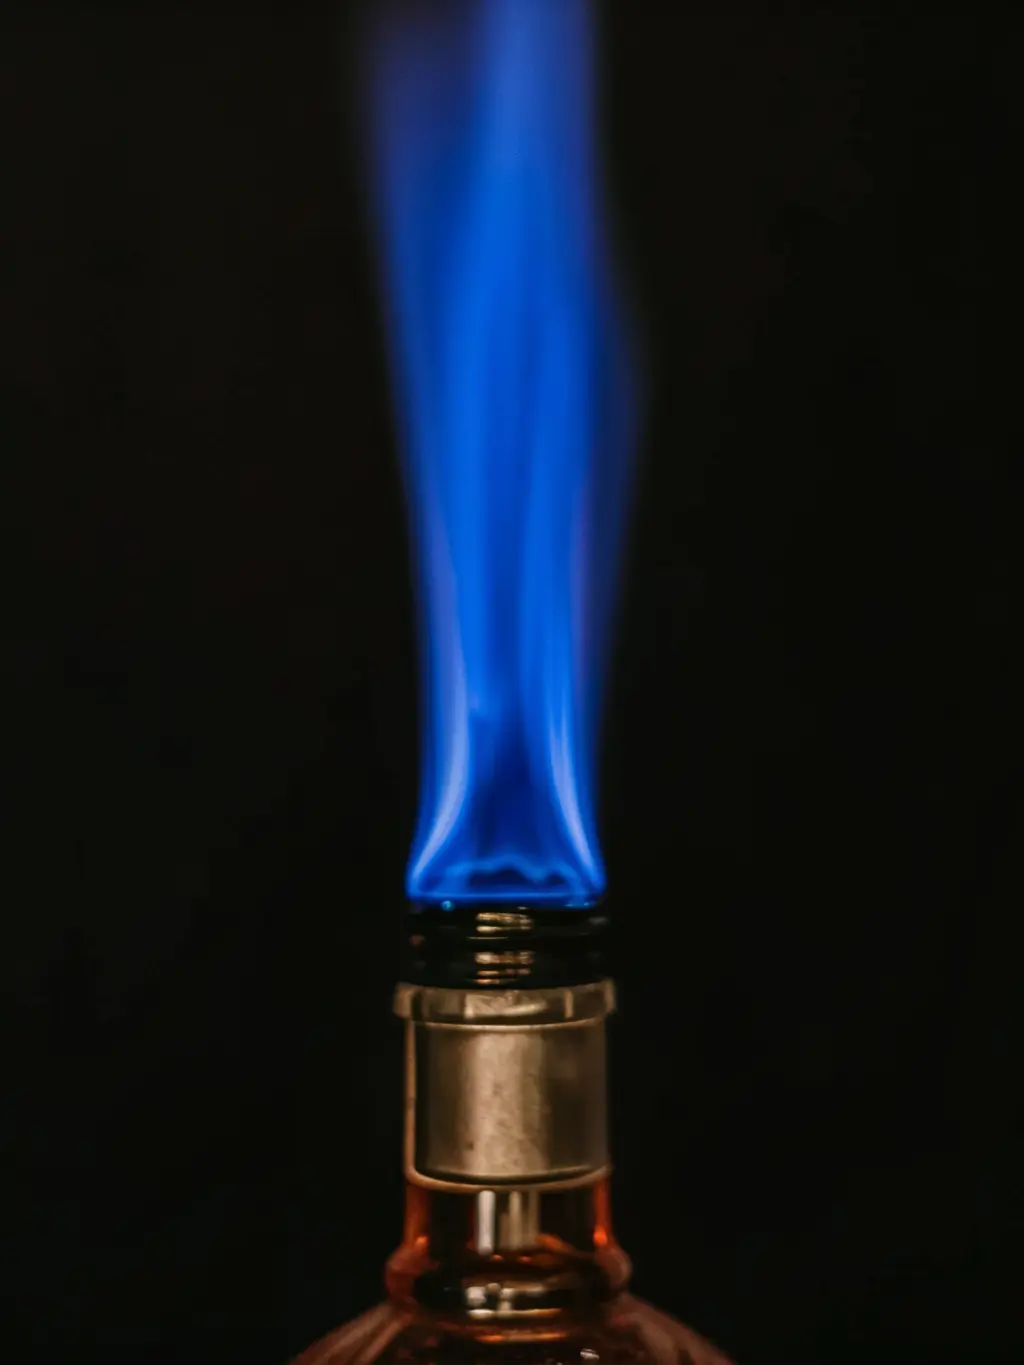
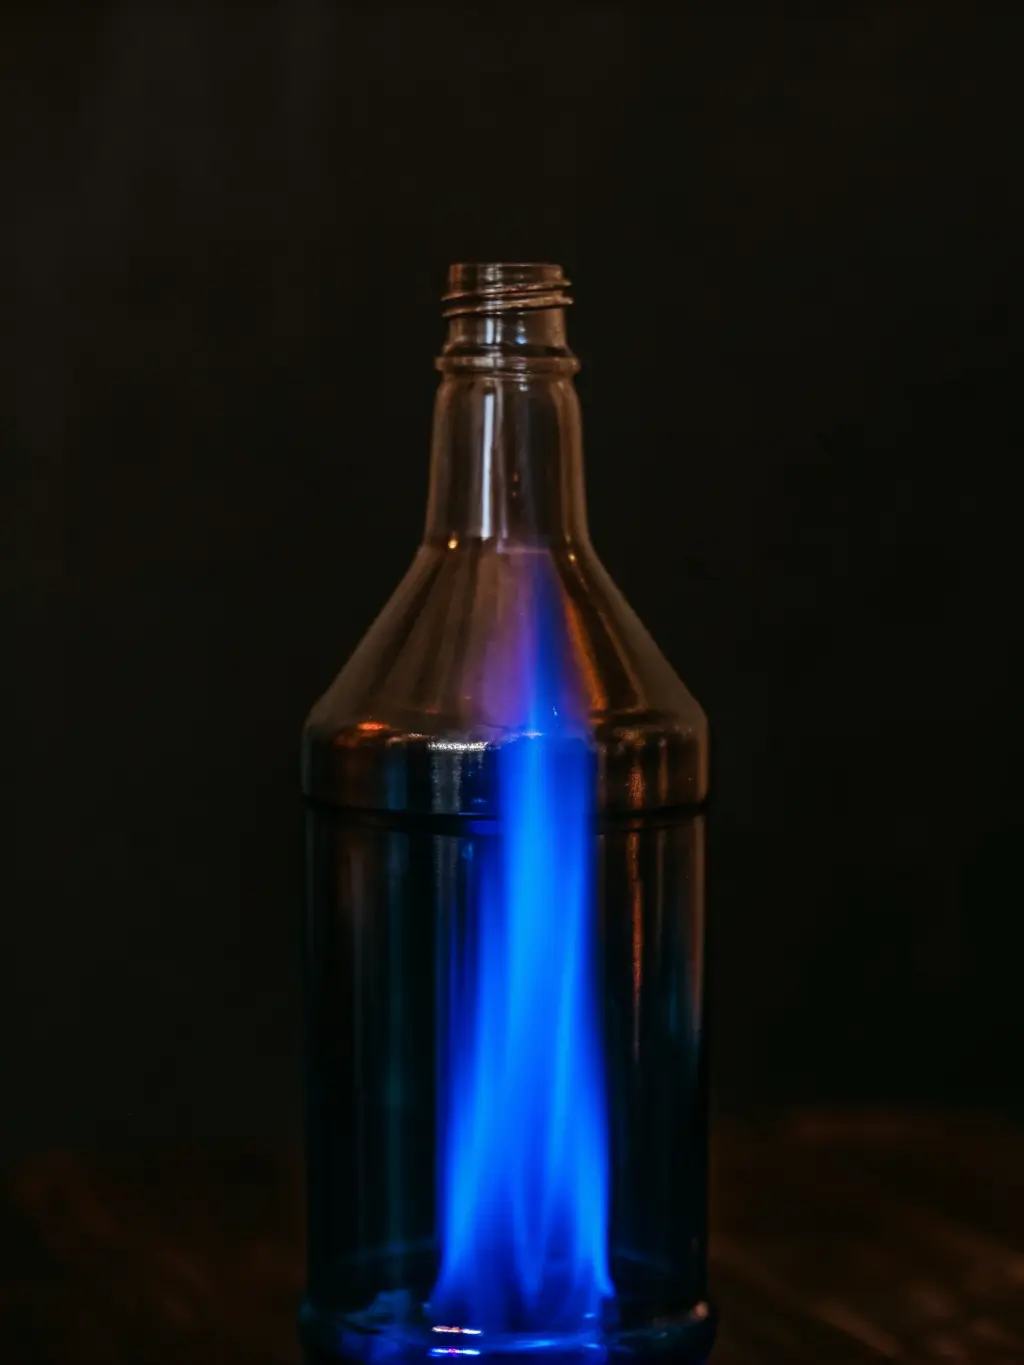
Zážeh hoří uvnitř lahve rumu, čtyři plameny se přestaly opakovat
Kapitola první: text mluví o parách nahromaděných v láhvi rumu, ne v hrdle,
a obrázek to konečně ukazuje — oheň za sklem, otevřené tmavé hrdlo, žádná
etiketa, žádná ruka nad hrdlem a v láhvi ani kapka. Zadání v grafice si nese
proč: samotné „holds no liquid" hladinu neodstraní, model z modré záře udělá
kaluž na dně; a když plamen scvrkne, nemá záběr čím svítit a dosvítí si hnědou
hospodu, takže oheň musí vyplnit vnitřek až do hrdla.

Kapitola šestá: čtyři zážehy vypadaly jako čtyři kopie. Teď má první žlutou
špičku, druhý červenou, třetí je menší a čtvrtý širší. Nedělá to model —
inpaint z každého plamene udělal svíčku, image-to-image je rozmazal a do
čtvrté láhve přimaloval druhou láhev. Dělá to `npm run plameny`, které plamen
vyzobne jako svítící modrou vrstvu nad tmavým sklem, přetvaruje ji a obarví.
Skla, hrdel ani pozadí se to nedotkne.

Changed region(s): [[0.2812, 0.0, 0.7188, 1.0], [0.7812, 0.8923, 1.0, 1.0], [0.6875, 0.8923, 0.7188, 0.9231]]

diff --git a/obsah/01-co-je-buliban.md b/obsah/01-co-je-buliban.md
@@ -27,7 +27,7 @@
 
 > ## Co je to Buliban
 >
-> Na dně láhve zbylo pár mililitrů. Zahřejete sklo — nejčastěji třením mezi dlaněmi — dokud se v hrdle nenahromadí alkoholové páry. Pak je zapálíte.
+> Na dně láhve zbylo pár mililitrů. Zahřejete sklo — nejčastěji třením mezi dlaněmi — dokud se v láhvi rumu nenahromadí alkoholové výpary. Pak je zapálíte.
 >
 > Vyšlehne plamen. Většinou modrý, podle alkoholu i se žlutým nebo oranžovým nádechem. Trvá asi vteřinu.
 >
@@ -57,7 +57,7 @@ Sekce si říká o tři dlaždice s čísly — je to nejúspornější způsob,
 
 ## Obrázek
 
-Modrý plamen z hrdla láhve na černém pozadí, ruka drží láhev. Ikonický záběr starého webu — v hero je široký a filmový, tady stačí těsný detail hrdla, kde je vidět, jak plamen z hrdla přímo vyrůstá.
+Láhev rumu na černém pozadí, modrý plamen hoří **uvnitř** skla a prosvěcuje ho. Sekce Buliban definuje, takže obojí musí být na první pohled jasné: že hoří uvnitř láhve, a že je to láhev rumu — proto na ní etiketa se slovem RUM.
 
 - **Alternativa:** dvojice obrázků vedle sebe — vlevo studená láhev v dlaních, vpravo tentýž záběr ve chvíli zážehu. Vizuálně vysvětlí příčinu a následek beze slov.
-- **Nedělat:** oheň bez láhve. Sekce definuje Buliban, takže na obrázku musí být láhev.
+- **Nedělat:** oheň bez láhve a plamen šlehající nad hrdlo. Obojí sekci rozbíjí — první nemá co definovat, druhé ukazuje něco jiného, než o čem je text.
